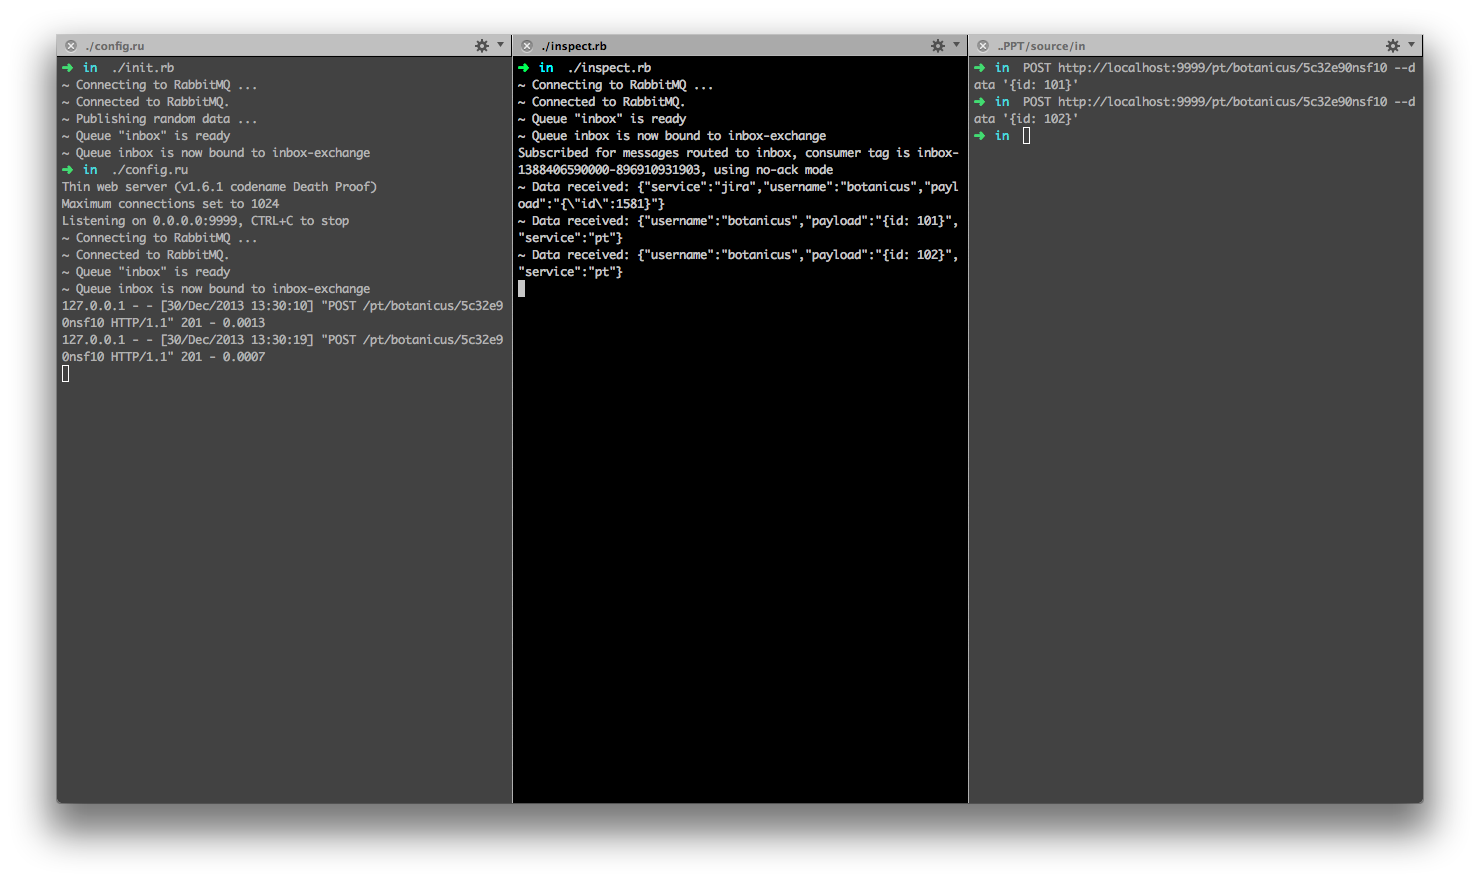
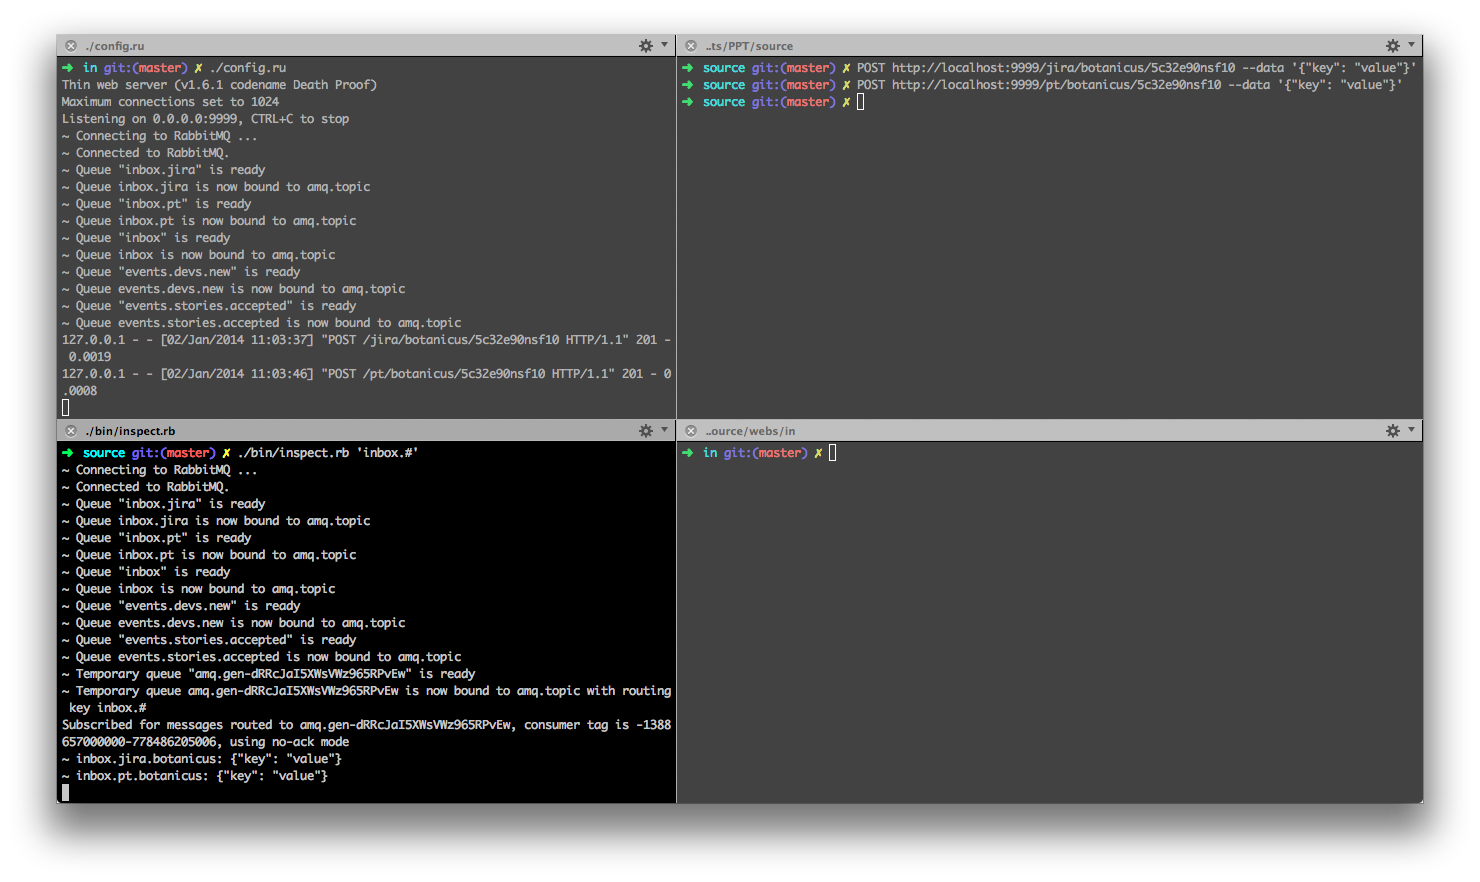
Inspection script works.

diff --git a/README.html b/README.html
@@ -7,16 +7,16 @@
 
 <a href="how-it-works.png"><img width="450" src="how-it-works.png" /></a>
 
-<h1>Setup</h1>
+<h1>Initial Setup</h1>
 <ol>
   <li>Create <code>config/amqp.json</code> with keys <code>user</code>, <code>password</code> and <code>vhost</code>.</li>
   <li>Run <code>./bin/setup_rabbitmq.rb</code> to set up RabbitMQ users and permissions.</li>
 </ol>
 
 <h1>Simulation (Creating Fake Data)</h1>
-<p>
-  Run <code>./publish_test_data.rb</code>.
-</p>
+<pre>
+  curl -X POST http://localhost:9999/pt/botanicus/5c32e90nsf10
+</pre>
 
 <h1>Inspection</h1>
 <p>

diff --git a/bin/inspect.rb b/bin/inspect.rb
@@ -2,10 +2,14 @@
 
 # This script creates second queue and binds it to
 # the exchange. It never touches the 'production' queue.
+#
+# Usage: ./bin/inspect.rb 'inbox.#'
 
-require 'ppt/client'
+require 'ppt'
 
-client = Client.register_hook
+client = PPT::Client.register_hook
+
+routing_key = ARGV.first
 
 EM.run do
   EM.next_tick do
@@ -16,12 +20,12 @@ EM.run do
         puts "~ Temporary queue #{temporary_queue.name.inspect} is ready"
       end
 
-      temporary_queue.bind(client.exchange.name) do
-        puts "~ Temporary queue #{temporary_queue.name} is now bound to #{client.exchange.name}"
+      temporary_queue.bind(client.exchange.name, routing_key) do
+        puts "~ Temporary queue #{temporary_queue.name} is now bound to #{client.exchange.name} with routing key #{routing_key}"
       end
 
-      client.subscribe do |payload|
-        puts "~ Data received: #{payload}"
+      client.subscribe(temporary_queue) do |payload, header, frame|
+        puts "~ #{frame.routing_key}: #{payload}"
       end
     end
   end

diff --git a/lib/ppt/client.rb b/lib/ppt/client.rb
@@ -79,16 +79,15 @@ class PPT::Client
     self.on_open_callbacks << block
   end
 
-  def publish(data)
-    self.exchange.publish(data)
+  def publish(*args)
+    self.exchange.publish(*args)
   end
 
-  def subscribe(routing_key, &block)
-    self.queues[] #######
-    @queue.consume(true) do |consume_ok|
-      puts "Subscribed for messages routed to #{@queue.name}, consumer tag is #{consume_ok.consumer_tag}, using no-ack mode"
+  def subscribe(queue, &block)
+    queue.consume(true) do |consume_ok|
+      puts "Subscribed for messages routed to #{queue.name}, consumer tag is #{consume_ok.consumer_tag}, using no-ack mode"
 
-      @queue.on_delivery do |basic_deliver, header, payload|
+      queue.on_delivery do |basic_deliver, header, payload|
         block.call(payload, header, basic_deliver)
       end
     end
